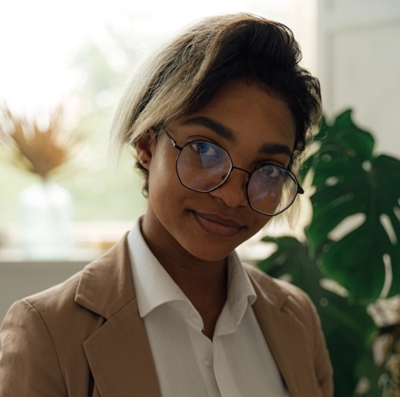
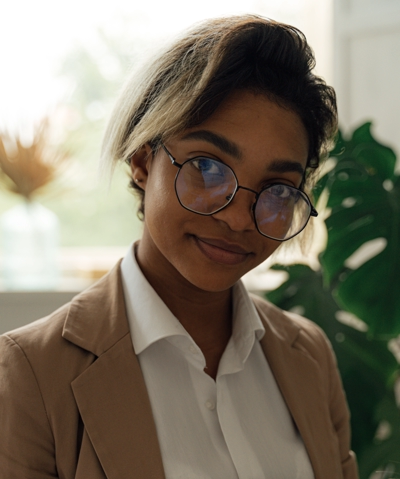
adjusted img size and border radius

diff --git a/css/styles.css b/css/styles.css
@@ -141,7 +141,7 @@ ul {
   background-color: var(--beige);
   color: var(--grey);
   padding: 10px;
-  max-height: 350px;
+  max-height: 600px;
 }
 
 .events h2 {
@@ -153,8 +153,9 @@ ul {
 .big-news-image,
 .news-image {
   background-image: url("../images/professora.webp");
-  background-size: contain;
+  background-size: cover;
   background-repeat: no-repeat;
+  border-radius: 50%;
 }
 
 /*MOBILE SCREEN*/
@@ -232,7 +233,7 @@ ul {
     display: flex;
     flex-direction: column;
     margin: 20px auto;
-    min-height: 12em;
+    min-height: 15em;
     min-width: 15em;
   }
 }
@@ -271,9 +272,10 @@ ul {
   }
 
   .hero-content-big {
-    height: 700px;
+    height: 800px;
     margin: 0 auto;
-    font-size: 30px;
+    font-size: 20px;
+    color: #ffff;
   }
 
   .info-container {
@@ -291,6 +293,14 @@ ul {
 
   /*home-page events container*/
 
+  .big-events {
+    max-height: 350px;
+  }
+
+  .big-events h2 {
+    margin: 20px;
+  }
+
   .big-news-container {
     display: flex;
     max-width: 90%;
@@ -300,8 +310,11 @@ ul {
   .big-news-image {
     box-sizing: border-box;
     max-width: 40%;
-    margin-top: 0px;
-    min-height: 12em;
+    min-height: 15em;
     min-width: 15em;
+  }
+
+  .big-news-container p {
+    margin: 0px 20px 0px 20px;
   }
 }

diff --git a/index.html b/index.html
@@ -69,7 +69,7 @@
       <section class="title-events">
         <h1>ALL EVENTS// ACTIVITIES// EXHIBITIONS</h1>
       </section>      
-      <section class="events">
+      <section class="events big-events">
         <h2>NEWS!</h2>
         <div class="news-container big-news-container">
           
